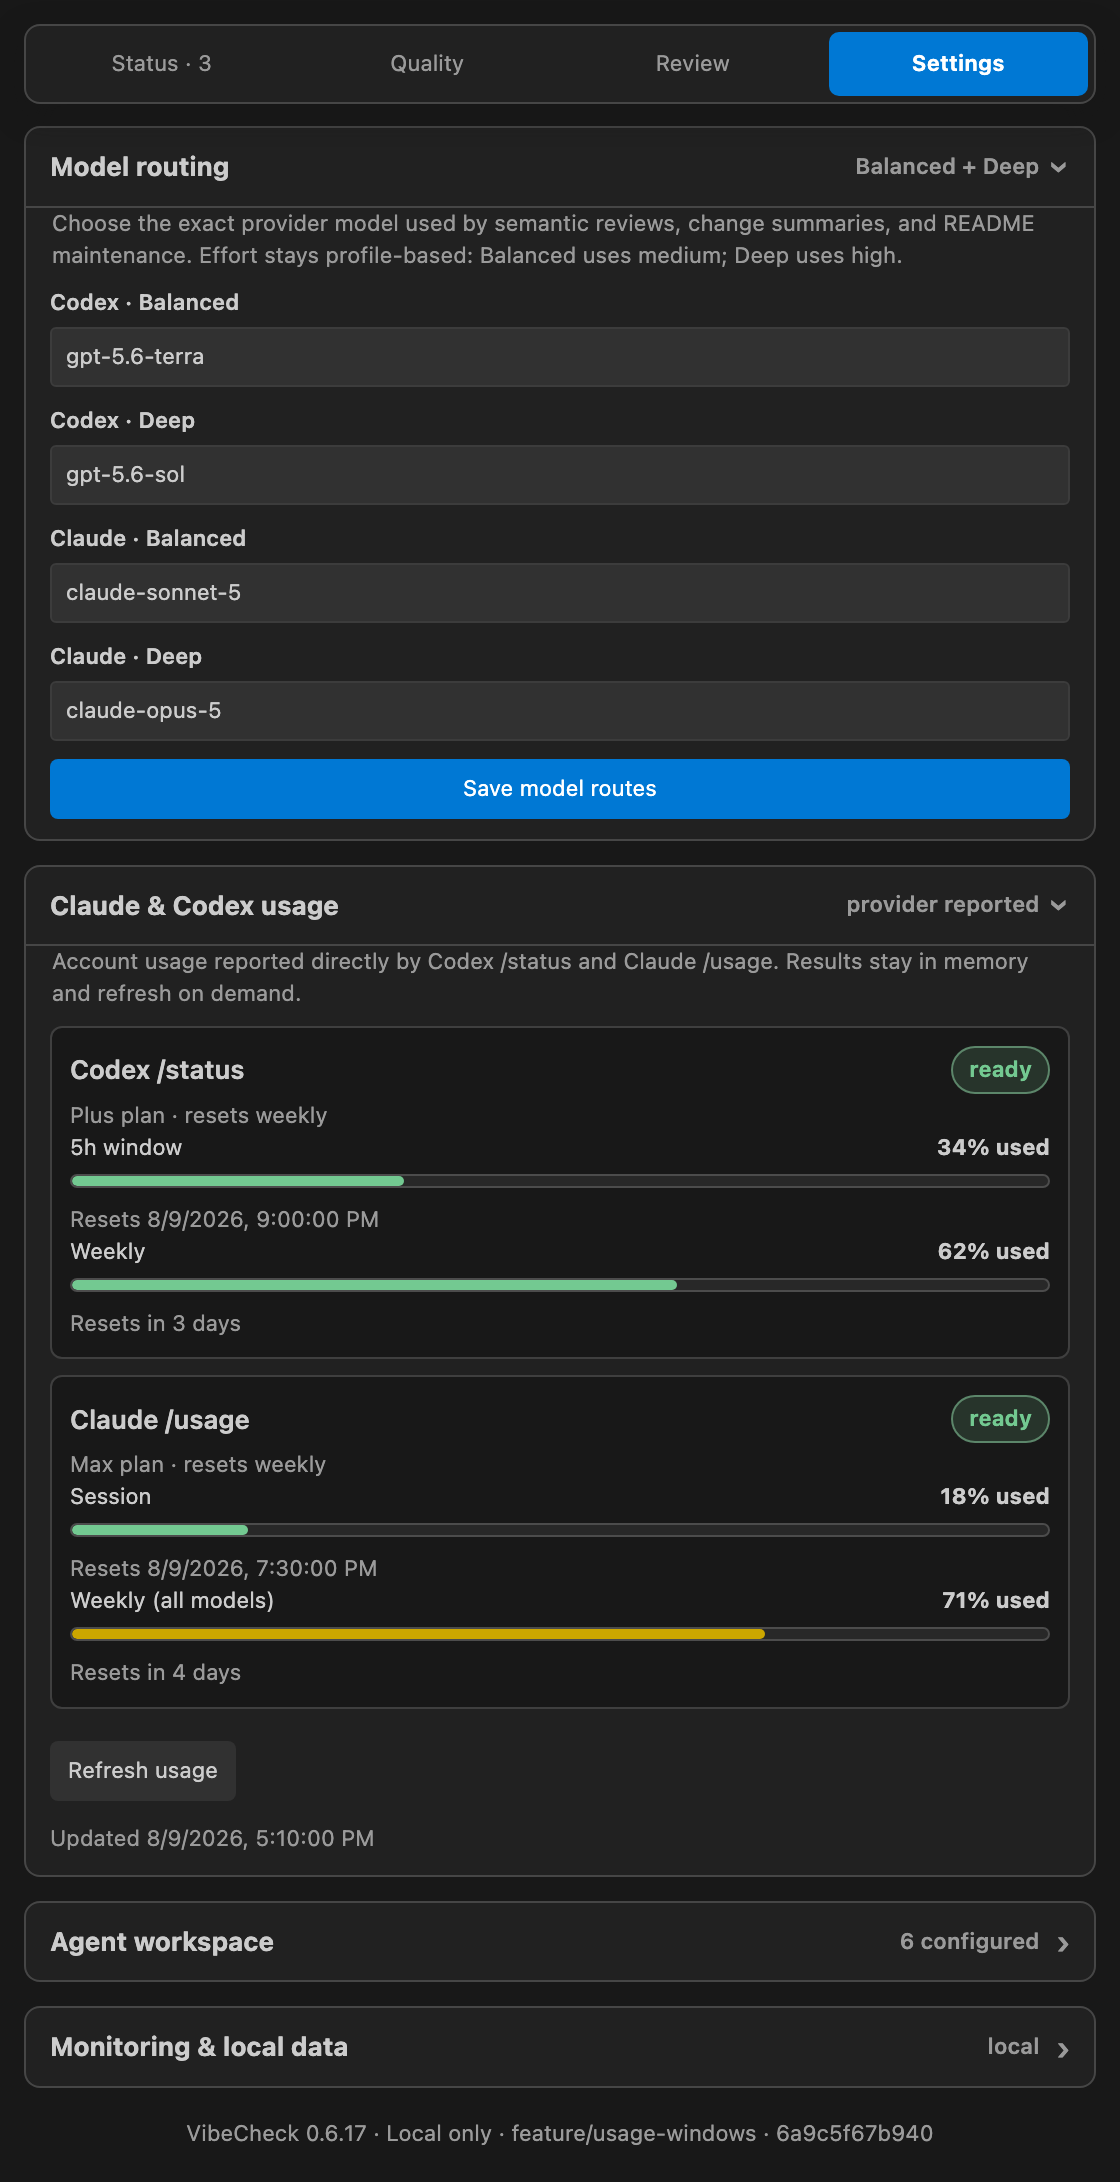
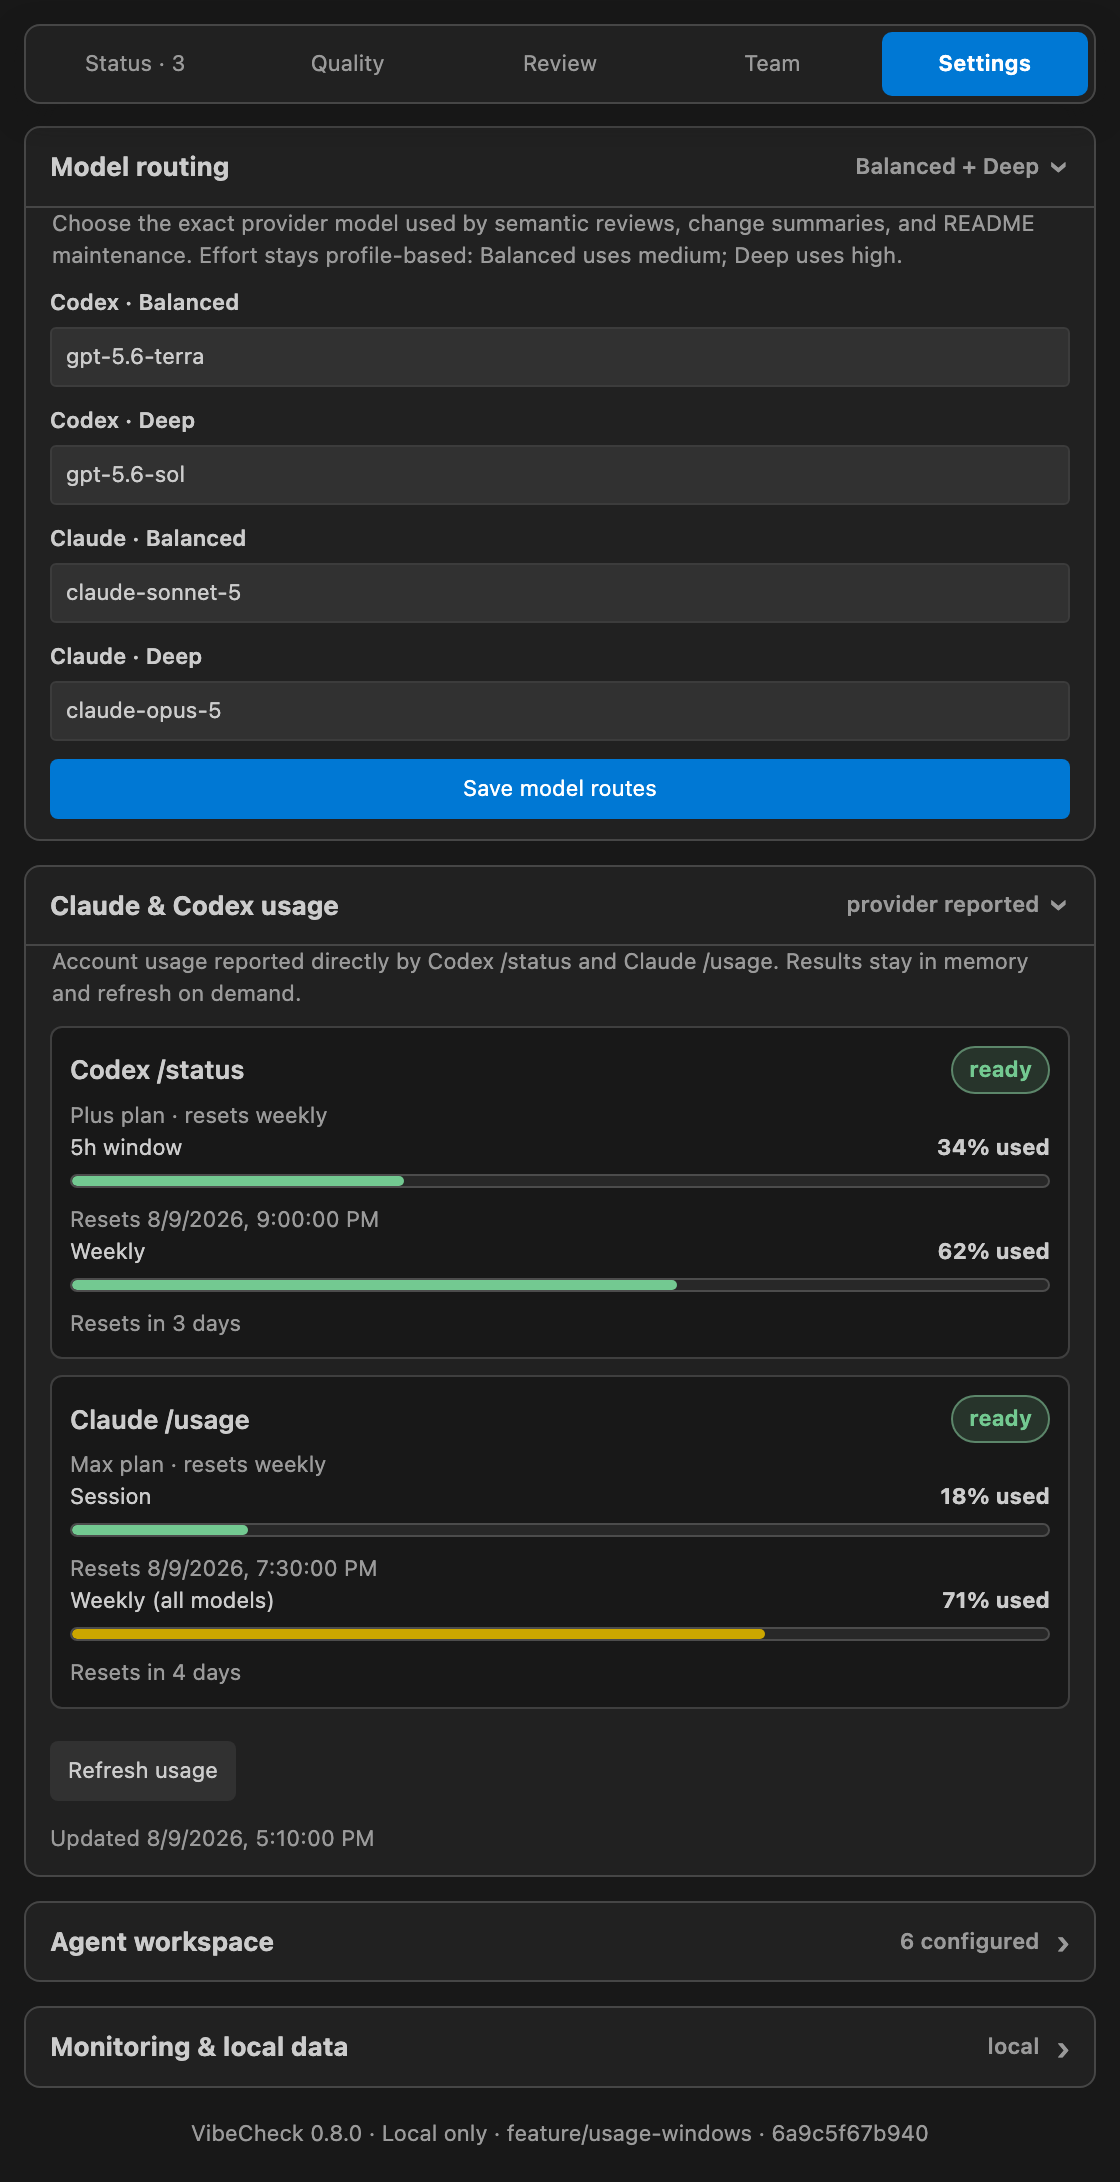
Refactor code structure for improved readability and maintainability

diff --git a/README.md b/README.md
@@ -6,31 +6,37 @@ VibeCheck is a VS Code extension that observes a Git-backed workspace, surfaces 
 
 ## See VibeCheck in action
 
-The Control Center is a single Activity Bar panel with four tabs: Status, Quality, Review, and Settings.
+The Control Center is a single Activity Bar panel with five tabs: Status, Quality, Review, Team, and Settings.
 
-| Status | Review |
+| Status | Quality |
 | --- | --- |
-| [![VibeCheck Status tab showing a readiness verdict, current test, coverage, security, and changed-file evidence, and three open findings](docs/images/vibecheck-status.png)](docs/images/vibecheck-status.png) | [![VibeCheck Review tab showing a completed Claude deep review with its activity summary and three defects located at specific files and lines](docs/images/vibecheck-review.png)](docs/images/vibecheck-review.png) |
-| One readiness verdict, the evidence behind it, and the findings still holding it back. | Explicit Codex or Claude semantic review, with every defect tied to a file and line. |
+| [![VibeCheck Status tab showing a readiness verdict, current test, coverage, security, and changed-file evidence, and three open findings](docs/images/vibecheck-status.png)](docs/images/vibecheck-status.png) | [![VibeCheck Quality tab showing four repository-owned gates where typecheck, tests, and dependency security passed and core coverage went stale](docs/images/vibecheck-quality.png)](docs/images/vibecheck-quality.png) |
+| One readiness verdict, the evidence behind it, and the findings still holding it back. | Repository-owned gates keep their command, result, timing, and report — and go stale when inputs change. |
 
-| Quality | Settings |
+| Review | Team |
 | --- | --- |
-| [![VibeCheck Quality tab showing four repository-owned gates where typecheck, tests, and dependency security passed and core coverage went stale](docs/images/vibecheck-quality.png)](docs/images/vibecheck-quality.png) | [![VibeCheck Settings tab showing model routing and provider usage windows for Codex and Claude](docs/images/vibecheck-settings.png)](docs/images/vibecheck-settings.png) |
-| Repository-owned gates keep their command, result, timing, and report — and go stale when inputs change. | Model routing, provider usage, the agent workspace, and local-data controls. |
+| [![VibeCheck Review tab showing a completed Claude deep review with its activity summary and three defects located at specific files and lines](docs/images/vibecheck-review.png)](docs/images/vibecheck-review.png) | [![VibeCheck Team tab showing a six-member roster compiled to Claude subagent files, with five in sync and one modified since deployment](docs/images/vibecheck-team.png)](docs/images/vibecheck-team.png) |
+| Explicit Codex or Claude semantic review, with every defect tied to a file and line. | A persistent roster defined in `.vibecheck/team.yaml`, with per-member deployment state. |
+
+| Settings |
+| --- |
+| [![VibeCheck Settings tab showing model routing and provider usage windows for Codex and Claude](docs/images/vibecheck-settings.png)](docs/images/vibecheck-settings.png) |
+| Model routing, provider usage, the agent workspace, and local-data controls. |
 
 Screenshots are generated from the real panel with `npm run screenshots`; see [docs/screenshots/](docs/screenshots/).
 
 ## What it provides
 
 - A VibeCheck Activity Bar Control Center, status bar, and diagnostics for local repository state.
-- An Activity Bar notification badge that mirrors the Status readiness verdict, counting the outstanding reasons whenever the Status page reports "Checks needed" or "Action needed".
+- An Activity Bar notification badge that lights up when a required verification gate has gone stale, with a tooltip naming how many.
 - Git- and workspace-based observation with start, pause, refresh, and local-data deletion controls.
 - Deterministic findings for runtime dependency changes, deleted or skipped/focused tests, removed assertions, sensitive-file changes, generated or binary additions, broad diffs, and configured import-boundary violations.
 - Explicit, trusted verification commands with pass/fail/stale state, input hashing, bounded output retention, and secret-assignment redaction.
+- Gate recommendations for missing quality checks: an explicit apply action installs the dependency with the detected package manager and only then adds the gate to `.vibecheck/config.yaml`.
 - Repository Markdown plan discovery and active-plan selection.
 - Markdown evidence reports, verification reports, and change summaries.
 - Explicit Codex or Claude semantic code reviews that validate structured file and line evidence before it reaches workspace state.
-- Team roster management with direct deploy and undeploy flows for default or custom agents.
+- A persistent engineering team defined in `.vibecheck/team.yaml` and compiled into native Claude subagent files plus a managed Team block in `AGENTS.md`, with deploy, undeploy, and per-member drift state.
 - Reviewed generation, preview, application, alignment, and reset flows for Claude and Codex workspace instruction/supporting files.
 - Optional Codex and Claude usage snapshots.
 
@@ -87,11 +93,21 @@ Use **Run Verification** for an individual configured gate or **Run All Verifica
 
 Verification results are associated with relevant workspace inputs. Changing a matching file makes a prior result stale rather than treating an earlier successful run as current.
 
+When the Quality tab shows a gate the repository cannot run yet — for example a missing coverage or lint dependency — **Install and add gate** shows exactly what will run before anything happens. VibeCheck installs the dependency with the detected package manager as an argument vector (never a shell string), and only adds the gate to `.vibecheck/config.yaml` once the install succeeds.
+
 ### Run a semantic code review
 
 Use **Run Code Review** and choose a configured provider/profile. Semantic reviews are explicit and read-only. VibeCheck validates structured evidence before persisting findings, keeps provider activity bounded, and marks reviews stale after relevant edits.
 
 Because the selected provider may process repository content through its configured service, use this workflow only when that processing is appropriate for the repository.
+
+### Maintain the engineering team
+
+The Team tab manages a persistent roster of specialist roles — by default Pam, Scout, Archy, Cody, Tristan, and Renee. The roster's structured fields live in `.vibecheck/team.yaml`; each member's role prompt is the body of `.claude/agents/<id>.md`, authored there directly. Deploying compiles the frontmatter of those subagent files and the managed Team block in `AGENTS.md`.
+
+Each member shows whether its compiled file is in sync, modified, or missing, so a hand-edited or drifted role is visible before it matters. Members can be enabled, disabled, added, or removed, and **Undeploy team** removes the generated provider files.
+
+Delegation itself happens in your own Claude Code and Codex sessions. VibeCheck maintains the roster and never launches these agents.
 
 ### Grant provider permissions ahead of time
 
@@ -114,6 +130,7 @@ Repository configuration lives in `.vibecheck/`:
 
 - [`config.yaml`](.vibecheck/config.yaml) defines plan discovery, verification commands, invalidation paths, and the diff-expansion threshold.
 - [`rules.yaml`](.vibecheck/rules.yaml) defines import boundaries.
+- [`team.yaml`](.vibecheck/team.yaml) defines the engineering roster: provider policy, profile, and each member's structured fields.
 
 The current configuration defines these required quality gates:
 
@@ -198,7 +215,7 @@ npm run package:vsix
 Install a locally packaged build with:
 
 ```bash
-code --install-extension packages/vibecheck-0.6.18.vsix --force
+code --install-extension packages/vibecheck-0.8.0.vsix --force
 ```
 
 Reload the target VS Code window after installation.
@@ -223,11 +240,11 @@ team roster ───────────────┘
 - `src/verification/` executes trusted commands and tracks freshness.
 - `src/reviews/` runs provider-backed reviews and validates their structured output.
 - `src/adapters/` retains the explicit cleanup path for legacy monitoring hooks.
-- `src/team/` manages roster compilation, direct deployment, and undeployment.
+- `src/team/` manages roster compilation, direct deployment, and undeployment, and stays out of `src/ui/`.
 - `src/agent-instructions/` manages reviewed workspace-file proposals, alignment, backups, and explicit apply boundaries.
 - `src/ui/` renders the VS Code surfaces without directly importing collector, configuration, or verification modules.
 
-The configured rules preserve two important boundaries: UI modules do not read repository/configuration/verification adapters directly, and domain modules do not depend on implementation layers.
+The configured rules preserve two important boundaries: UI modules do not read repository/configuration/verification/team adapters directly, and domain modules do not depend on implementation layers.
 
 ## Local-first and privacy constraints
 
@@ -241,4 +258,4 @@ Legacy VibeCheck monitoring hooks can be removed explicitly with the `Remove Leg
 
 The repository’s implementation plan identifies the local repository-mode workflow, deterministic findings, verification freshness, plan-aware intervention, team management, architecture-boundary checks, code review, and model routing as implemented. Current work is focused on product validation and hardening, including dogfooding, extension-host automation, large-repository performance measurement, richer language resolution, and multi-root support. See [PLAN.md](PLAN.md) for the detailed implementation plan.
 
-<!-- vibecheck-readme: reviewed-at=2026-08-09T21:56:34.671Z; commit=fbbdfff4780a7e35a58f0216dd9d0476dd4fa38a -->
+<!-- vibecheck-readme: reviewed-at=2026-08-11T23:40:34.967Z; commit=ce9410c23dbcb8c495c9fe649195b5409933dc3a -->
